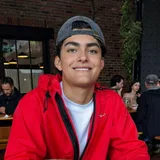
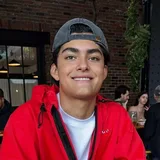
Las miniaturas se recortan por donde estan las caras, no por donde no
La miniatura de la entrevista con Andy Toh era UNA MESA DE CENTRO: las dos
caras quedaban fuera de cuadro. En Shibuya, a Jaime le cortaban la barbilla.
Y en Singapur, Marina Bay Sands salia partido. La culpa es de
sharp.strategy.attention: su heuristica premia contraste y bordes, y el
terrazo blanco con manchas negras le gana a dos caras a contraluz detras de un
cristal.

scripts/build-photos.mjs lleva ahora el punto focal de cada foto ESCRITO en
fracciones de la original, sacado de mirarlas una por una con una rejilla de
porcentajes encima, y anotado con lo que hay ahi. Recorta la caja 4:3 mas
grande que cabe centrada en ese punto. Las miniaturas suben de 320x360 a
480x360 para que no se vean blandas en pantallas de densidad 2.

El avatar de Jaime tambien: la cabeza le ocupa la mitad de ARRIBA de la foto
original, asi que el recorte "centrado" que habia dejaba la cara pegada al
borde y dentro del circulo de 48 px se veia sobre todo chamarra roja. Ahora la
cabeza ocupa el 65 % del cuadro con su centro en el 46 %. La foto de /about va
al 48 %, que es la proporcion de un retrato y no de un primer plano.

Y object-position pasa a ser de cada foto (src/data/home.ts), no un
"center 30 %" para las seis.

Alt mas descriptivos en los dos idiomas: quien no ve la foto ahora sabe
cuantas personas hay y quienes son.

diff --git a/src/data/home.ts b/src/data/home.ts
@@ -38,14 +38,24 @@ export const RATES = {
 // Las lecciones ya no se listan aquí: viven en src/content/lessons (MDX) y se
 // leen con getLessons() de src/data/lessons.ts.
 
-export interface Breakdown { id: string; titleKey: UIKey; altKey: UIKey; href: string; net: 'tiktok' | 'linkedin'; img: string; w: number; h: number }
+/**
+ * Una publicación de TikTok o LinkedIn con su miniatura.
+ *
+ * `focus` es el object-position de ESA foto: dónde está lo que no se puede
+ * cortar (las caras). Las miniaturas ya salen recortadas en 4:3 por
+ * scripts/build-photos.mjs, que es el mismo sitio de donde salen estos
+ * valores, así que hoy coinciden con la caja del HTML y no se nota; está aquí
+ * para el día en que la tarjeta cambie de proporción — sin esto, ese día las
+ * caras se recortan otra vez y nadie se entera.
+ */
+export interface Breakdown { id: string; titleKey: UIKey; altKey: UIKey; href: string; net: 'tiktok' | 'linkedin'; img: string; w: number; h: number; focus: string }
 export const BREAKDOWNS: Breakdown[] = [
-  { id: 'japan', titleKey: 'post.japan.title', altKey: 'alt.japan', net: 'tiktok', href: 'https://www.tiktok.com/@smart.financee/video/7653328531694439700', img: '/assets/breakdowns/thumbs/breakdown-japan.webp', w: 320, h: 240 },
-  { id: 'andytoh', titleKey: 'post.andytoh.title', altKey: 'alt.andytoh', net: 'tiktok', href: 'https://www.tiktok.com/@smart.financee/video/7662781308988411156', img: '/assets/breakdowns/thumbs/breakdown-andy-toh.webp', w: 320, h: 240 },
-  { id: 'singapore', titleKey: 'post.singapore.title', altKey: 'alt.singapore', net: 'tiktok', href: 'https://www.tiktok.com/@smart.financee/video/7655111359419387157', img: '/assets/breakdowns/thumbs/breakdown-singapore.webp', w: 320, h: 240 },
-  { id: 'jpmorgan', titleKey: 'post.jpmorgan.title', altKey: 'alt.jpmorgan', net: 'linkedin', href: 'https://www.linkedin.com/posts/jaime-sandoval-ricano-23b3a4401_great-experience-attending-an-insightful-activity-7450005569882738689-rTcJ', img: '/assets/breakdowns/thumbs/breakdown-jpmorgan-etf.webp', w: 320, h: 240 },
-  { id: 'moris', titleKey: 'post.moris.title', altKey: 'alt.moris', net: 'linkedin', href: 'https://www.linkedin.com/posts/jaime-sandoval-ricano-23b3a4401_i-had-the-opportunity-to-attend-a-conference-activity-7455446269097033728-Z8sn', img: '/assets/breakdowns/thumbs/breakdown-moris-dieck.webp', w: 320, h: 240 },
-  { id: 'tradingroom', titleKey: 'post.tradingroom.title', altKey: 'alt.tradingroom', net: 'linkedin', href: 'https://www.linkedin.com/posts/jaime-sandoval-ricano-23b3a4401_i-had-the-opportunity-to-organize-and-participate-activity-7450679158118076417-OPK7', img: '/assets/breakdowns/thumbs/breakdown-trading-room-podcast.webp', w: 320, h: 240 }
+  { id: 'japan', titleKey: 'post.japan.title', altKey: 'alt.japan', net: 'tiktok', href: 'https://www.tiktok.com/@smart.financee/video/7653328531694439700', img: '/assets/breakdowns/thumbs/breakdown-japan.webp', w: 480, h: 360, focus: '47% 50%' },
+  { id: 'andytoh', titleKey: 'post.andytoh.title', altKey: 'alt.andytoh', net: 'tiktok', href: 'https://www.tiktok.com/@smart.financee/video/7662781308988411156', img: '/assets/breakdowns/thumbs/breakdown-andy-toh.webp', w: 480, h: 360, focus: '48% 50%' },
+  { id: 'singapore', titleKey: 'post.singapore.title', altKey: 'alt.singapore', net: 'tiktok', href: 'https://www.tiktok.com/@smart.financee/video/7655111359419387157', img: '/assets/breakdowns/thumbs/breakdown-singapore.webp', w: 480, h: 360, focus: '54% 50%' },
+  { id: 'jpmorgan', titleKey: 'post.jpmorgan.title', altKey: 'alt.jpmorgan', net: 'linkedin', href: 'https://www.linkedin.com/posts/jaime-sandoval-ricano-23b3a4401_great-experience-attending-an-insightful-activity-7450005569882738689-rTcJ', img: '/assets/breakdowns/thumbs/breakdown-jpmorgan-etf.webp', w: 480, h: 360, focus: '50% 38%' },
+  { id: 'moris', titleKey: 'post.moris.title', altKey: 'alt.moris', net: 'linkedin', href: 'https://www.linkedin.com/posts/jaime-sandoval-ricano-23b3a4401_i-had-the-opportunity-to-attend-a-conference-activity-7455446269097033728-Z8sn', img: '/assets/breakdowns/thumbs/breakdown-moris-dieck.webp', w: 480, h: 360, focus: '51% 50%' },
+  { id: 'tradingroom', titleKey: 'post.tradingroom.title', altKey: 'alt.tradingroom', net: 'linkedin', href: 'https://www.linkedin.com/posts/jaime-sandoval-ricano-23b3a4401_i-had-the-opportunity-to-organize-and-participate-activity-7450679158118076417-OPK7', img: '/assets/breakdowns/thumbs/breakdown-trading-room-podcast.webp', w: 480, h: 360, focus: '50% 38%' }
 ];
 
 export function ratesFresh(now = new Date()): boolean {

diff --git a/src/i18n/ui.ts b/src/i18n/ui.ts
@@ -133,12 +133,12 @@ const en = {
   'post.jpmorgan.title': 'Takeaways from JPMorgan\'s Chief ETF Strategist',
   'post.moris.title': 'A conversation with Moris Dieck',
   'post.tradingroom.title': 'Hosting the Financial Trading Room podcast',
-  'alt.japan': 'Shibuya at night, while filming the video on Japan\'s economic data',
-  'alt.andytoh': 'Interview recorded during the summer program in Singapore',
-  'alt.singapore': 'In front of Marina Bay Sands, Singapore',
-  'alt.jpmorgan': 'After the session with J.P. Morgan\'s Chief ETF Strategist',
-  'alt.moris': 'At a financial education event in Mexico',
-  'alt.tradingroom': 'Recording the Financial Trading Room podcast',
+  'alt.japan': 'Jaime in Shibuya at night, while filming the video on Japan\'s economic data',
+  'alt.andytoh': 'Jaime interviewing Andy Toh, seated across a low table, during the summer program in Singapore',
+  'alt.singapore': 'Jaime by the water in front of Marina Bay Sands, Singapore',
+  'alt.jpmorgan': 'Jaime with four other attendees on stage, after the session with J.P. Morgan\'s Chief ETF Strategist',
+  'alt.moris': 'Jaime next to Moris Dieck at a financial education event in Mexico',
+  'alt.tradingroom': 'Jaime and a guest with microphones, recording the Financial Trading Room podcast in front of the market screens',
 
   'nl.eyebrow': 'Daily newsletter',
   'nl.title': 'The markets, in your inbox at 8:00 AM',
@@ -159,7 +159,7 @@ const en = {
   'who.name': 'Jaime Sandoval Ricaño',
   'who.line': 'Student and creator. Markets and money explained on TikTok and LinkedIn, in two languages.',
   'who.more': 'About',
-  'alt.jaime': 'Jaime, founder of Smart Finance',
+  'alt.jaime': 'Jaime Sandoval Ricaño, founder of Smart Finance, smiling in a red jacket',
 
   'footer.disclaimer': 'Smart Finance content is for educational purposes only and does not constitute financial, investment, or tax advice. Market data is delayed and comes from third-party sources (Yahoo Finance, CoinGecko, Bloomberg); verify before deciding anything.',
   'footer.community': 'Student community',
@@ -415,12 +415,12 @@ const es: typeof en = {
   'post.jpmorgan.title': 'Lo que dejó el Chief ETF Strategist de J.P. Morgan',
   'post.moris.title': 'Una conversación con Moris Dieck',
   'post.tradingroom.title': 'Conduciendo el podcast del Financial Trading Room',
-  'alt.japan': 'Shibuya de noche, durante la grabación del video sobre los datos económicos de Japón',
-  'alt.andytoh': 'Entrevista grabada durante el programa de verano en Singapur',
-  'alt.singapore': 'Frente a Marina Bay Sands, en Singapur',
-  'alt.jpmorgan': 'Al terminar la sesión con el Chief ETF Strategist de J.P. Morgan',
-  'alt.moris': 'En un evento de educación financiera en México',
-  'alt.tradingroom': 'Grabando el podcast del Financial Trading Room',
+  'alt.japan': 'Jaime en Shibuya de noche, durante la grabación del video sobre los datos económicos de Japón',
+  'alt.andytoh': 'Jaime entrevistando a Andy Toh, sentados frente a frente, durante el programa de verano en Singapur',
+  'alt.singapore': 'Jaime junto al agua, frente a Marina Bay Sands, en Singapur',
+  'alt.jpmorgan': 'Jaime con otros cuatro asistentes en el escenario, al terminar la sesión con el Chief ETF Strategist de J.P. Morgan',
+  'alt.moris': 'Jaime junto a Moris Dieck en un evento de educación financiera en México',
+  'alt.tradingroom': 'Jaime y un invitado con micrófonos, grabando el podcast del Financial Trading Room frente a las pantallas de mercado',
 
   'nl.eyebrow': 'Boletín diario',
   'nl.title': 'Los mercados, en tu correo a las 8:00 AM',
@@ -441,7 +441,7 @@ const es: typeof en = {
   'who.name': 'Jaime Sandoval Ricaño',
   'who.line': 'Estudiante y creador. Mercados y dinero explicados en TikTok y LinkedIn, en dos idiomas.',
   'who.more': 'Acerca de',
-  'alt.jaime': 'Jaime, fundador de Smart Finance',
+  'alt.jaime': 'Jaime Sandoval Ricaño, fundador de Smart Finance, sonriendo con una chamarra roja',
 
   'footer.disclaimer': 'El contenido de Smart Finance es solo educativo y no constituye asesoría financiera, de inversión ni fiscal. Los datos de mercado llegan con retraso y vienen de terceros (Yahoo Finance, CoinGecko, Bloomberg); verifícalos antes de decidir cualquier cosa.',
   'footer.community': 'Comunidad estudiantil',
